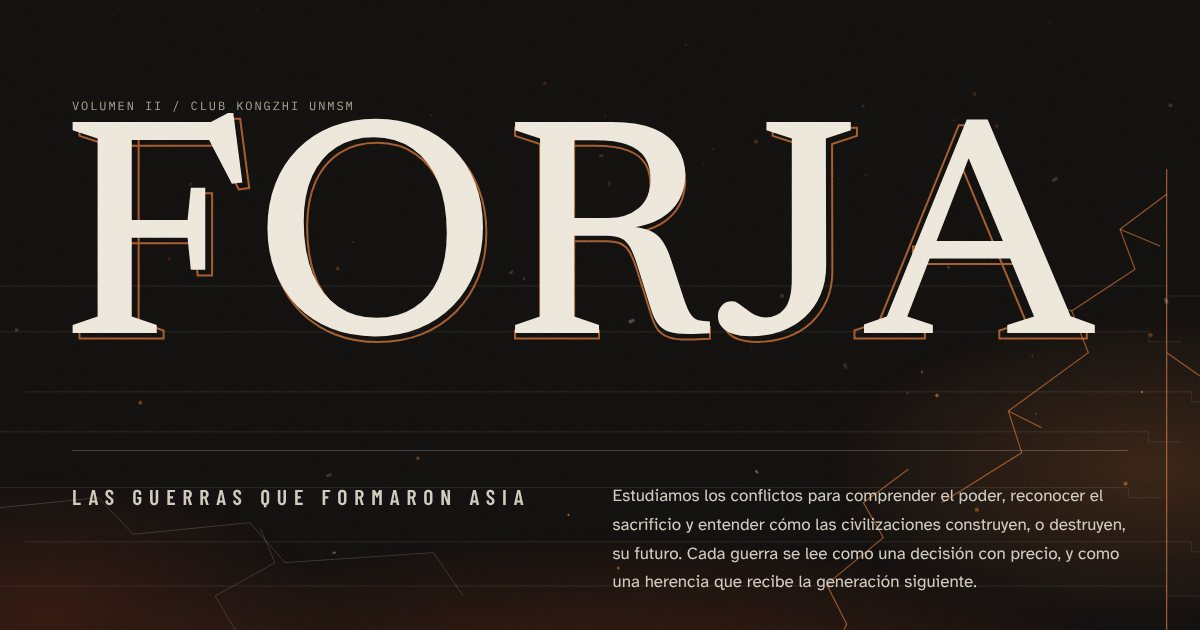
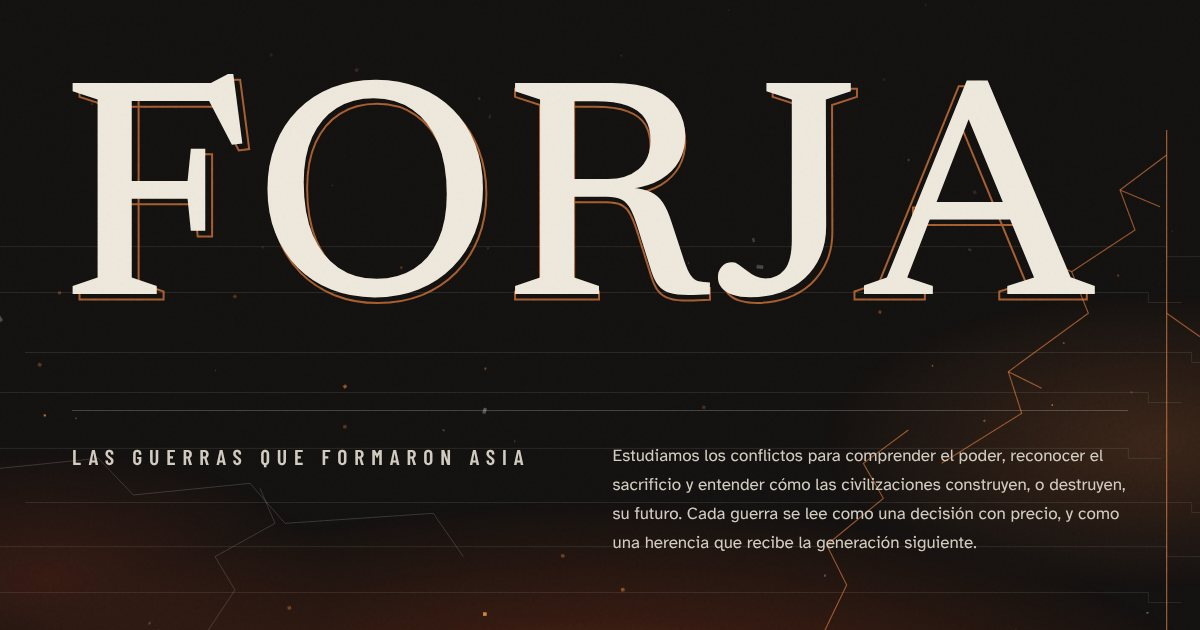
Forja: barra superior como la de Nalanda (Forja, Triveni, Vol. II); sin Volumen II / Club Kongzhi en la portada
Claude-Session: https://claude.ai/code/session_01UvqgfZ9coaDeSVF98KeAMA

diff --git a/index.html b/index.html
@@ -49,6 +49,12 @@ if(!reduce&&(!seen||force)){d.classList.add('intro-on')}})();
   /* Cabecera */
   .topbar{position:fixed;inset:0 0 auto 0;height:72px;z-index:100;display:flex;align-items:center;justify-content:space-between;gap:24px;padding:0 var(--gutter);border-bottom:1px solid transparent;background:rgba(19,17,16,0);transition:background-color .45s var(--ease-ed),border-color .45s var(--ease-ed)}
   .topbar.solid{background:rgba(19,17,16,.92);border-bottom-color:var(--line)}
+  .tb-word{font:italic 500 19px/1 var(--serif);letter-spacing:.01em;color:var(--hueso);padding:14px 0}
+  .tb-right{display:flex;align-items:center;gap:clamp(18px,2.6vw,32px);font:400 12px/1 var(--mono);letter-spacing:.14em;text-transform:uppercase}
+  .tb-back{color:var(--ceniza);padding:14px 0;white-space:nowrap;transition:color .25s var(--ease-ui)}
+  .tb-back:active{transform:scale(.97)}
+  @media (hover:hover){.tb-back:hover{color:var(--hueso)}}
+  .tb-vol{color:var(--ceniza)}
   .logo{display:flex;align-items:center;gap:12px;font:500 20px/1 var(--serif);letter-spacing:.06em;text-transform:uppercase}
   .nav{display:flex;gap:clamp(16px,2.6vw,32px)}
   .nav a{white-space:nowrap;font:400 12px/1 var(--mono);letter-spacing:.16em;text-transform:uppercase;color:var(--escoria);padding:14px 0;transition:color .25s var(--ease-ui)}
@@ -242,17 +248,11 @@ if(!reduce&&(!seen||force)){d.classList.add('intro-on')}})();
 <div id="sentinel" aria-hidden="true" style="position:absolute;top:0;left:0;width:1px;height:80px;pointer-events:none"></div>
 
 <header class="topbar" id="topbar">
-  <a class="logo" href="#inicio" aria-label="Forja, ir al inicio">
-    <svg aria-hidden="true" width="26" height="26" viewBox="0 0 64 64" fill="none"><rect x="6" y="20" width="32" height="7" fill="#ECE6DA"/><rect x="26" y="37" width="32" height="7" fill="#ECE6DA"/><rect x="31" y="10" width="2" height="44" fill="#E0793C"/></svg>
-    <span>Forja</span>
-  </a>
-  <nav class="nav" aria-label="Principal">
-    <a class="back" href="https://renzo34990.github.io/pr-landing/">&larr; Triveni</a>
-    <a class="opt2" href="#actos">Los actos</a>
-    <a class="opt" href="#metodo">Cómo se lee</a>
-    <a href="#departamento">Departamento</a>
-    <a class="opt" href="https://renzo34990.github.io/gengis-biblioteca/" target="_blank" rel="noopener">Nalanda</a>
-  </nav>
+  <a class="tb-word" href="#inicio" aria-label="Forja, ir al inicio">Forja</a>
+  <div class="tb-right">
+    <a class="tb-back" href="https://renzo34990.github.io/pr-landing/">&larr; Triveni</a>
+    <span class="tb-vol">Vol. II</span>
+  </div>
 </header>
 
 <main id="contenido">
@@ -271,7 +271,6 @@ if(!reduce&&(!seen||force)){d.classList.add('intro-on')}})();
       <path class="l" d="M0 440H1400V452H1440"/><path class="l" d="M0 500H1400V512H1440"/><path class="l" d="M0 560H1400V572H1440"/><path class="l" d="M0 620H1400V632H1440"/><path class="l" d="M0 680H1400V692H1440"/><path class="l" d="M0 740H1400V752H1440"/><path class="l" d="M0 800H1400V812H1440"/><path class="l" d="M0 860H1400V872H1440"/>
       <path class="f" d="M1400 300V900"/>
     </svg>
-    <p class="eyebrow mono rvh">Volumen II / Club Kongzhi UNMSM</p>
     <h1 id="titulo" aria-label="Forja" data-t="FORJA"><span class="mask" aria-hidden="true"><span style="--i:0">F</span></span><span class="mask" aria-hidden="true"><span style="--i:1">O</span></span><span class="mask" aria-hidden="true"><span style="--i:2">R</span></span><span class="mask" aria-hidden="true"><span style="--i:3">J</span></span><span class="mask" aria-hidden="true"><span style="--i:4">A</span></span></h1>
     <div class="hero-body">
       <p class="sub rvh" style="--d:.1s">Las guerras que formaron Asia</p>
